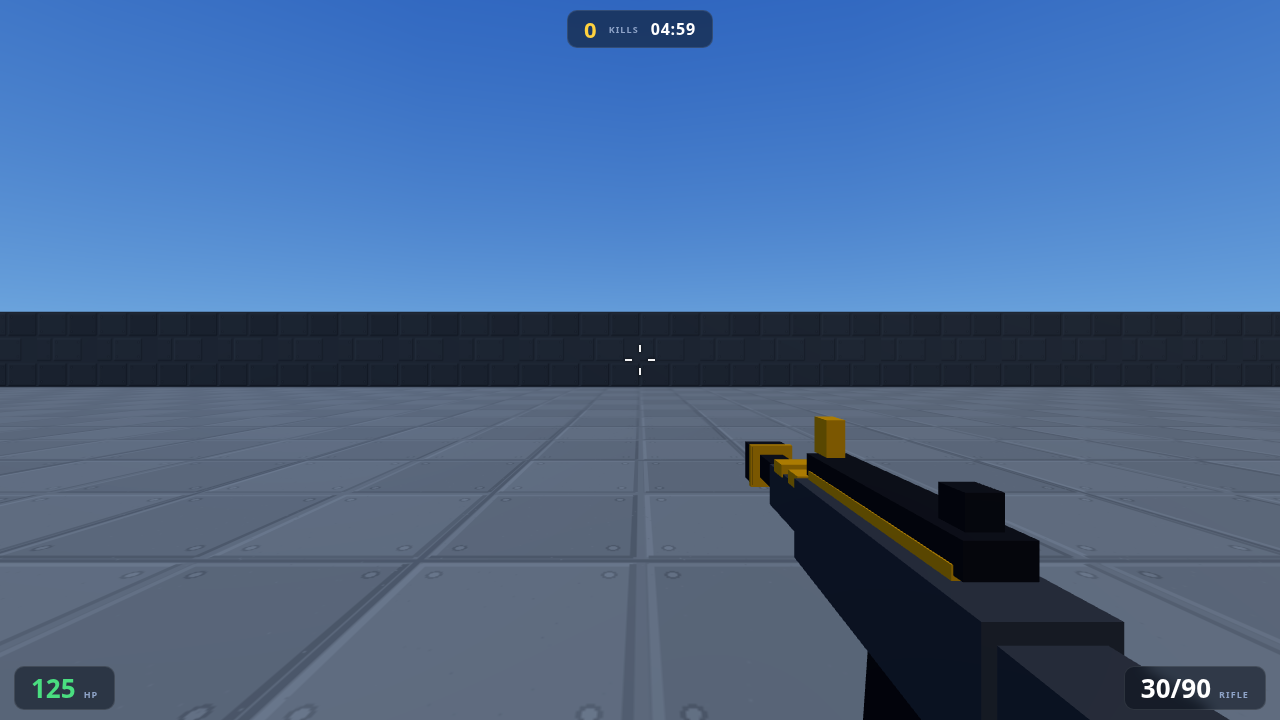
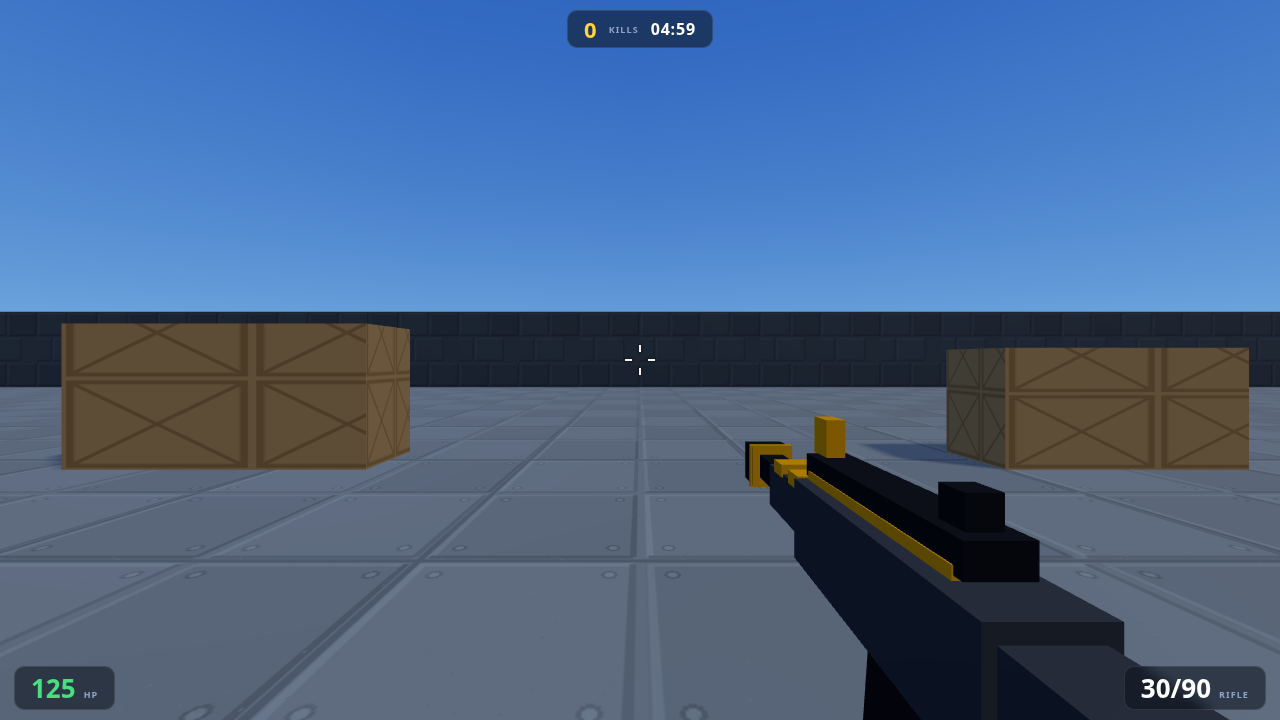
ACTUALIZACION

Changed region(s): [[0.0312, 0.4278, 0.3438, 0.6722], [0.6875, 0.4583, 1.0, 0.6722]]

diff --git a/src/combat/WeaponSystem.js b/src/combat/WeaponSystem.js
@@ -281,7 +281,10 @@ export class WeaponSystem {
       const mz = THREE.MathUtils.lerp(preset.pos.z, -0.30, ads) - 0.48; // muzzle tip
       const muzzleLocal = new THREE.Vector3(mx, my + 0.01, mz);
       const muzzleWorld = muzzleLocal.applyQuaternion(this.camera.quaternion).add(this.camera.position);
-      this.vfx.muzzleFlash(muzzleWorld, this.camera.getWorldDirection(new THREE.Vector3()));
+      // Muzzle flash size carries weapon identity: shotgun cannon-blast,
+      // rifle standard, pistol compact.
+      const flashSize = weapon === WeaponData.shotgun ? 1.7 : weapon === WeaponData.pistol ? 0.75 : 1.0;
+      this.vfx.muzzleFlash(muzzleWorld, this.camera.getWorldDirection(new THREE.Vector3()), flashSize);
     }
 
     // Raycast for each pellet
@@ -418,10 +421,12 @@ export class WeaponSystem {
       }
     }
 
-    // Hitmarker
+    // Hitmarker — hierarchy: body hit (small yellow) → headshot (bigger, red
+    // tint + sharper sound) → kill (largest, red). The player learns the
+    // difference without reading anything.
     if (usesPlayerAmmo && hits.length > 0) {
-      this.showHitmarker(killed);
       const headshot = hits.some(h => h.headshot);
+      this.showHitmarker(killed, headshot && !killed);
       if (this.audio) this.audio.play(killed ? 'kill' : (headshot ? 'headshot' : 'hit'));
       if (headshot && !killed && this.vfx && this.vfx.hud) this.vfx.hud.showHitBanner(true);
     }
@@ -435,16 +440,19 @@ export class WeaponSystem {
     return { hits, totalDamage, killed };
   }
 
-  showHitmarker(killed) {
+  showHitmarker(killed, headshot = false) {
     if (!this.hitmarker) return;
     this.hitmarker.classList.add('show');
+    // Headshot-no-kill: white-hot core (bigger pop), kill: red (biggest)
+    this.hitmarker.classList.toggle('hs', headshot && !killed);
     const ticks = this.hitmarker.querySelectorAll('i');
-    const color = killed ? '#ff4444' : '#ffd23f';
+    const color = killed ? '#ff4444' : (headshot ? '#ffffff' : '#ffd23f');
     ticks.forEach(t => t.style.background = color);
     clearTimeout(this._hmTimer);
     this._hmTimer = setTimeout(()=> {
       this.hitmarker.classList.remove('show');
-    }, killed ? 220 : 130);
+      this.hitmarker.classList.remove('hs');
+    }, killed ? 240 : (headshot ? 170 : 120));
     if (this.crosshair) {
       this.crosshair.classList.add('hit');
       setTimeout(()=> this.crosshair.classList.remove('hit'), 120);

diff --git a/src/player/PlayerController.js b/src/player/PlayerController.js
@@ -71,7 +71,16 @@ export class PlayerController {
       this.pitch = Math.max(-Math.PI/2 + 0.1, Math.min(Math.PI/2 - 0.1, this.pitch));
     }
 
-    // Apply rotation to camera — yaw/pitch + subtle strafe roll
+    // Apply rotation to camera — yaw/pitch + subtle strafe roll.
+    // Recoil spring: returns the aim toward where the player was pointing.
+    // _recoilReturn is the exact pitch still owed; recovery consumes from it
+    // and can never overshoot below the original aim.
+    if ((this._recoilReturn || 0) > 0.0004) {
+      const use = Math.min(this._recoilReturn, this._recoilReturn * dt * 9);
+      this.pitch -= use;
+      this._recoilReturn -= use;
+      if (this._recoilReturn < 0.0004) this._recoilReturn = 0;
+    }
     this.roll = THREE.MathUtils.lerp(this.roll, -this.input.move.x * 0.018, Math.min(1, dt * 10));
     this.camera.rotation.order = 'YXZ';
     this.camera.rotation.y = this.yaw;
@@ -94,7 +103,11 @@ export class PlayerController {
     wishDir.addScaledVector(forward, move.y);
     wishDir.addScaledVector(right, move.x);
     if (wishDir.lengthSq() > 0) wishDir.normalize();
-    const wishVel = wishDir.multiplyScalar(speed);
+    // In the air the wish speed caps at ~85% of ground speed: jumps keep
+    // momentum but a mid-air direction change can't reach full strafe —
+    // the movement reads as committed, not ice-skating.
+    const speedCap = this.onGround ? speed : speed * 0.85;
+    const wishVel = wishDir.multiplyScalar(speedCap);
 
     // Acceleration toward wish velocity. Separate accel/friction gives
     // instant response + precise stops without feeling glued mid-air.
@@ -187,9 +200,13 @@ export class PlayerController {
   }
 
   // Small camera recoil kick (pitch up + random yaw), applied by WeaponSystem
+  // Camera recoil kick: pitch up + random yaw. _recoilReturn accumulates the
+  // exact pitch owed; the spring in update() pays it back over time (punch +
+  // settle, no permanent rise, no overshoot).
   addRecoil(pitchKick, yawKick) {
     this.pitch = Math.min(Math.PI/2 - 0.1, this.pitch + pitchKick);
     this.yaw += yawKick;
+    this._recoilReturn = Math.min(0.35, (this._recoilReturn || 0) + pitchKick);
   }
 
   takeDamage(amount) {

diff --git a/src/core/Game.js b/src/core/Game.js
@@ -407,11 +407,12 @@ export class Game {
   }
 
   // VFX helpers — pooling + loop central (sin rAF por partícula)
-  muzzleFlash(pos, dir) {
-    // Two-layer flash: glowing shell + hot core, at the muzzle tip
+  muzzleFlash(pos, dir, size = 1) {
+    // Two-layer flash: glowing shell + hot core, at the muzzle tip.
+    // `size` scales per weapon (shotgun blast vs pistol snap).
     const flash = new THREE.Mesh(this._geoMuzzle, this._matMuzzle.clone());
     flash.position.copy(pos).addScaledVector(dir, 0.10);
-    flash.scale.set(1.6, 1.6, 2.4);
+    flash.scale.set(1.6 * size, 1.6 * size, 2.4 * size);
     this.scene.add(flash);
     this._activeFlashes.push({ mesh: flash, life: 0.055, maxLife: 0.055 });
 
@@ -545,8 +546,13 @@ export class Game {
     this.playerController.update(dt);
 
     // ADS is a camera zoom + weapon centering: one aim input, one feel.
+    // Speed FOV: moving fast widens the view slightly (+5° at full run) —
+    // a classic arcade speed cue that costs nothing and never triggers while
+    // aiming (ADS fov wins).
     this.weaponSystem.setAim(this.input.aim, dt);
-    const targetFov = this.input.aim ? 62 : 78;
+    const horizSpeed = Math.hypot(this.playerController.velocity.x, this.playerController.velocity.z);
+    const speedFov = Math.min(1, horizSpeed / this.playerController.moveSpeed) * 5;
+    const targetFov = this.input.aim ? 62 : 78 + speedFov;
     if (Math.abs(this.camera.fov - targetFov) > 0.05) {
       this.camera.fov = THREE.MathUtils.lerp(this.camera.fov, targetFov, Math.min(1, dt * 14));
       this.camera.updateProjectionMatrix();

diff --git a/src/world/Map.js b/src/world/Map.js
@@ -103,6 +103,27 @@ export class Map {
     this._createBox(-12, 0, 14, 3, 2.0, 1.2, 'cover');
     this._createBox(-14, 0, 10, 1.2, 1.6, 3, 'cover');
 
+    // OUTER RING cover (map audit: cardinal spawns had 11-13/16 open sight
+    // lines >20u — spawn sniping). Mid-ring blocks break the long lanes and
+    // create flanking routes without closing the arena feel.
+    // N lane (behind spawn 0,-18)
+    this._createBox(-7, 0, -26, 5, 2.4, 1.4, 'cover');
+    this._createBox(8, 0, -26, 4, 2.0, 1.4, 'cover');
+    // S lane (behind spawn 0,18)
+    this._createBox(7, 0, 26, 5, 2.4, 1.4, 'cover');
+    this._createBox(-8, 0, 26, 4, 2.0, 1.4, 'cover');
+    // E lane (behind spawn 18,0)
+    this._createBox(26, 0, -6, 1.4, 2.4, 5, 'cover');
+    this._createBox(26, 0, 8, 1.4, 2.0, 4, 'cover');
+    // W lane (behind spawn -18,0)
+    this._createBox(-26, 0, 7, 1.4, 2.4, 5, 'cover');
+    this._createBox(-26, 0, -8, 1.4, 2.0, 4, 'cover');
+    // Diagonal corners: soft cover for the (±12,±12) spawns' long diagonals
+    this._createBox(20, 0, 20, 2.6, 1.8, 2.6, 'cover');
+    this._createBox(-20, 0, -20, 2.6, 1.8, 2.6, 'cover');
+    this._createBox(20, 0, -20, 2.6, 1.8, 2.6, 'cover');
+    this._createBox(-20, 0, 20, 2.6, 1.8, 2.6, 'cover');
+
     // Platforms — distinct elevated tone + accent edges
     this._createBox(0, 2.2, 8, 8, 0.4, 4, 'platform');
     this._createBox(0, 2.2, -8, 6, 0.4, 4, 'platform');

diff --git a/src/audio/AudioManager.js b/src/audio/AudioManager.js
@@ -156,9 +156,14 @@ export class AudioManager {
     };
     if (sampleMap[name]) {
       const key = sampleMap[name];
-      const vol = this._manifest && this._manifest[key] ? this._manifest[key][1] : 0.5;
-      // Tiny rate variation keeps repeated shots from sounding mechanical
-      const rate = name === 'shoot' ? 0.96 + Math.random() * 0.08 : 1;
+      let vol = this._manifest && this._manifest[key] ? this._manifest[key][1] : 0.5;
+      // Per-weapon sonic identity on the same sample: shotgun plays LOWER and
+      // LOUDER (heavy), pistol HIGHER and lighter (snappy), rifle neutral.
+      let rate = 1 + (Math.random() - 0.5) * 0.06; // tiny variation, no machine-gun sameness
+      if (name === 'shoot') {
+        if (variant === 'Shotgun') { rate *= 0.68; vol *= 1.25; }
+        else if (variant === 'Pistol') { rate *= 1.22; vol *= 0.85; }
+      }
       if (this._playSample(key, vol, rate)) return;
       // fall through to procedural fallback below
     }

diff --git a/style.css b/style.css
@@ -51,6 +51,7 @@ body{ background:#080c14; font-family: ui-sans-system, system-ui, -apple-system,
 /* Hitmarker — 4 diagonal ticks via clip-path (single element) */
 #hitmarker{ position:fixed; left:50%; top:50%; width:26px; height:26px; margin:-13px 0 0 -13px; opacity:0; pointer-events:none; z-index:4; transition: opacity 0.1s, transform 0.1s; transform:scale(0.8); }
 #hitmarker.show{ opacity:1; transform:scale(1.15); }
+#hitmarker.hs.show{ transform:scale(1.45); filter:drop-shadow(0 0 6px rgba(255,255,255,0.9)); }
 #hitmarker i{ position:absolute; width:3px; height:8px; background:#ffd23f; border-radius:1px; }
 #hitmarker i:nth-child(1){ left:2px; top:2px; transform:rotate(-45deg); }
 #hitmarker i:nth-child(2){ right:2px; top:2px; transform:rotate(45deg); }
